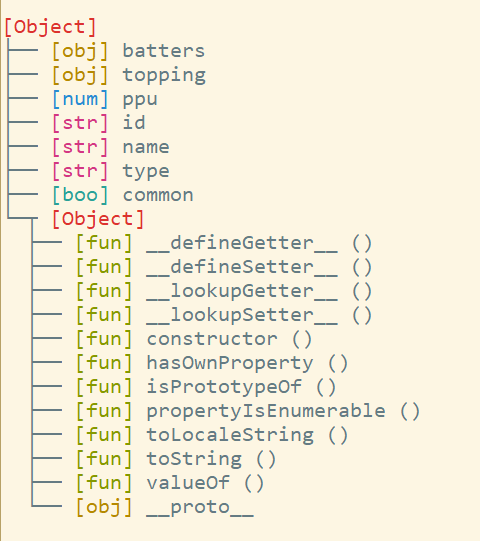
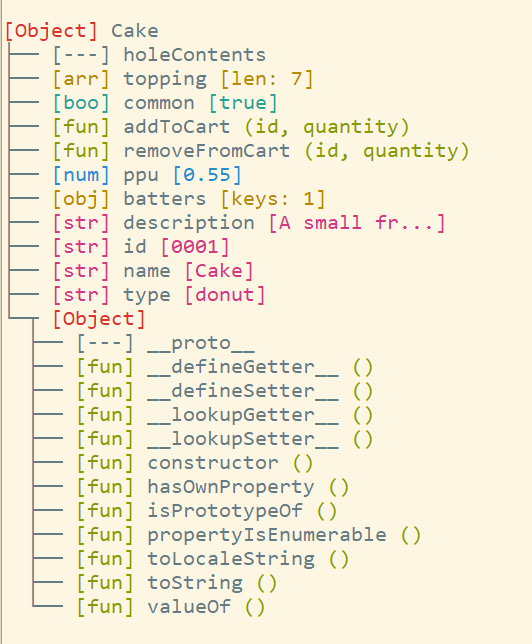
Array and value support

diff --git a/index.js b/index.js
@@ -2,6 +2,16 @@
 
 var archy = require('archy');
 var chalk = require('chalk');
+var stripAnsi = require('strip-ansi');
+var types = Object.freeze({
+  arr: 'arr',
+  boo: 'boo',
+  fun: 'fun',
+  num: 'num',
+  obj: 'obj',
+  str: 'str',
+  unk: '---'
+});
 
 module.exports = Object.freeze({
   apply(obj) {
@@ -30,16 +40,19 @@ function probe(obj) {
     node.nodes = Object.getOwnPropertyNames(obj);
 
     for (var i = 0; i < node.nodes.length; i++) {
-      var type = '---';
+      var focusObj = null;
       try {
-        type = typeof obj[node.nodes[i]];
+        focusObj = obj[node.nodes[i]];
       } catch (err) {}
+      var type = genType(focusObj);
       var prefix = genPrefix(type);
-      var postfix = type === 'function' ? genSignature(obj[node.nodes[i]].toString()) : '';
+      var postfix = genPostfix(type, focusObj);
       node.nodes[i] = `${prefix} ${node.nodes[i]} ${postfix}`;
     }
 
-    node.nodes.sort();
+    node.nodes.sort(function (a, b) {
+      return stripAnsi(a).localeCompare(stripAnsi(b));
+    });
     tree = tree || node;
     currentNode.nodes.push(node);
     currentNode = node;
@@ -75,30 +88,102 @@ function capitalize(value) {
   return value.charAt(0).toUpperCase() + value.slice(1);
 }
 
-function genPrefix(value) {
-  var result = `[${value.slice(0, 3)}]`.toLowerCase();
-  switch (result) {
-    case '[fun]':
-      result = chalk.green(result);
+function genType(obj) {
+  var type = types.unk;
+  if (obj == null) return type;
+  if (Array.isArray(obj)) return types.arr;
+  try {
+    type = typeof obj;
+    type = type.slice(0, 3).toLowerCase();
+  } catch (err) {}
+  return type;
+}
+
+function genPrefix(type) {
+  var result = void 0;
+  switch (type) {
+    case types.arr:
+      result = applyChalk(type, `[${type}]`);
       break;
-    case '[str]':
-      result = chalk.magenta(result);
+    case types.boo:
+      result = applyChalk(type, `[${type}]`);
       break;
-    case '[num]':
-      result = chalk.blue(result);
+    case types.fun:
+      result = applyChalk(type, `[${type}]`);
       break;
-    case '[boo]':
-      result = chalk.cyan(result);
+    case types.num:
+      result = applyChalk(type, `[${type}]`);
       break;
-    case '[obj]':
-      result = chalk.yellow(result);
+    case types.obj:
+      result = applyChalk(type, `[${type}]`);
+      break;
+    case types.str:
+      result = applyChalk(type, `[${type}]`);
       break;
     default:
+      result = `[${type}]`;
       break;
   }
   return result;
 }
 
-function genSignature(functionString) {
-  return functionString.slice(functionString.indexOf('('), functionString.indexOf(')') + 1);
+function genPostfix(type, obj) {
+  var postfix = '';
+  switch (type) {
+    case types.arr:
+      postfix = applyChalk(type, `[len: ${obj.length}]`);
+      break;
+    case types.boo:
+      postfix = applyChalk(type, `[${obj.toString()}]`);
+      break;
+    case types.fun:
+      var signature = genSignature(obj.toString());
+      postfix = applyChalk(type, signature);
+      break;
+    case types.num:
+      postfix = applyChalk(type, `[${obj.toString()}]`);
+      break;
+    case types.obj:
+      postfix = applyChalk(type, `[keys: ${Object.getOwnPropertyNames(obj).length}]`);
+      break;
+    case types.str:
+      var str = obj.length > 10 ? obj.substring(0, 10) + '...' : obj;
+      postfix = applyChalk(type, `[${str}]`);
+      break;
+    default:
+      break;
+  }
+  return postfix;
+}
+
+function applyChalk(type, str) {
+  var result = void 0;
+  switch (type) {
+    case types.arr:
+      result = chalk.yellow(str);
+      break;
+    case types.boo:
+      result = chalk.cyan(str);
+      break;
+    case types.fun:
+      result = chalk.green(str);
+      break;
+    case types.num:
+      result = chalk.blue(str);
+      break;
+    case types.obj:
+      result = chalk.yellow(str);
+      break;
+    case types.str:
+      result = chalk.magenta(str);
+      break;
+    default:
+      result = str;
+      break;
+  }
+  return result;
+}
+
+function genSignature(funString) {
+  return funString.slice(funString.indexOf('('), funString.indexOf(')') + 1);
 }

diff --git a/console-probe.js b/console-probe.js
@@ -1,5 +1,15 @@
 const archy = require('archy')
 const chalk = require('chalk')
+const stripAnsi = require('strip-ansi')
+const types = Object.freeze({
+  arr: 'arr',
+  boo: 'boo',
+  fun: 'fun',
+  num: 'num',
+  obj: 'obj',
+  str: 'str',
+  unk: '---'
+})
 
 module.exports = Object.freeze({
   apply (obj) {
@@ -28,14 +38,17 @@ function probe (obj) {
     node.nodes = Object.getOwnPropertyNames(obj)
 
     for (let i = 0; i < node.nodes.length; i++) {
-      let type = '---'
-      try { type = typeof obj[node.nodes[i]] } catch (err) { }
+      let focusObj = null
+      try { focusObj = obj[node.nodes[i]] } catch (err) {}
+      const type = genType(focusObj)
       const prefix = genPrefix(type)
-      const postfix = type === 'function' ? genSignature(obj[node.nodes[i]].toString()) : ''
+      const postfix = genPostfix(type, focusObj)
       node.nodes[i] = `${prefix} ${node.nodes[i]} ${postfix}`
     }
 
-    node.nodes.sort()
+    node.nodes.sort((a, b) => {
+      return stripAnsi(a).localeCompare(stripAnsi(b))
+    })
     tree = tree || node
     currentNode.nodes.push(node)
     currentNode = node
@@ -71,30 +84,102 @@ function capitalize (value) {
   return value.charAt(0).toUpperCase() + value.slice(1)
 }
 
-function genPrefix (value) {
-  let result = `[${value.slice(0, 3)}]`.toLowerCase()
-  switch (result) {
-    case '[fun]':
-      result = chalk.green(result)
+function genType (obj) {
+  let type = types.unk
+  if (obj == null) return type
+  if (Array.isArray(obj)) return types.arr
+  try {
+    type = typeof obj
+    type = type.slice(0, 3).toLowerCase()
+  } catch (err) { }
+  return type
+}
+
+function genPrefix (type) {
+  let result
+  switch (type) {
+    case types.arr:
+      result = applyChalk(type, `[${type}]`)
       break
-    case '[str]':
-      result = chalk.magenta(result)
+    case types.boo:
+      result = applyChalk(type, `[${type}]`)
       break
-    case '[num]':
-      result = chalk.blue(result)
+    case types.fun:
+      result = applyChalk(type, `[${type}]`)
       break
-    case '[boo]':
-      result = chalk.cyan(result)
+    case types.num:
+      result = applyChalk(type, `[${type}]`)
       break
-    case '[obj]':
-      result = chalk.yellow(result)
+    case types.obj:
+      result = applyChalk(type, `[${type}]`)
+      break
+    case types.str:
+      result = applyChalk(type, `[${type}]`)
       break
     default:
+      result = `[${type}]`
       break
   }
   return result
 }
 
-function genSignature (functionString) {
-  return functionString.slice(functionString.indexOf('('), functionString.indexOf(')') + 1)
+function genPostfix (type, obj) {
+  let postfix = ''
+  switch (type) {
+    case types.arr:
+      postfix = applyChalk(type, `[len: ${obj.length}]`)
+      break
+    case types.boo:
+      postfix = applyChalk(type, `[${obj.toString()}]`)
+      break
+    case types.fun:
+      const signature = genSignature(obj.toString())
+      postfix = applyChalk(type, signature)
+      break
+    case types.num:
+      postfix = applyChalk(type, `[${obj.toString()}]`)
+      break
+    case types.obj:
+      postfix = applyChalk(type, `[keys: ${Object.getOwnPropertyNames(obj).length}]`)
+      break
+    case types.str:
+      const str = obj.length > 10 ? obj.substring(0, 10) + '...' : obj
+      postfix = applyChalk(type, `[${str}]`)
+      break
+    default:
+      break
+  }
+  return postfix
+}
+
+function applyChalk (type, str) {
+  let result
+  switch (type) {
+    case types.arr:
+      result = chalk.yellow(str)
+      break
+    case types.boo:
+      result = chalk.cyan(str)
+      break
+    case types.fun:
+      result = chalk.green(str)
+      break
+    case types.num:
+      result = chalk.blue(str)
+      break
+    case types.obj:
+      result = chalk.yellow(str)
+      break
+    case types.str:
+      result = chalk.magenta(str)
+      break
+    default:
+      result = str
+      break
+  }
+  return result
+}
+
+function genSignature (funString) {
+  return funString.slice(funString.indexOf('('), funString.indexOf(')') + 1)
 }

diff --git a/console-probe.test.js b/console-probe.test.js
@@ -4,6 +4,7 @@ const donut = {
   'id': '0001',
   'type': 'donut',
   'name': 'Cake',
+  'description': 'A small fried cake of sweetened dough, typically in the shape of a ball or ring.',
   'ppu': 0.55,
   'common': true,
   'batters':
@@ -25,7 +26,10 @@ const donut = {
     { 'id': '5006', 'type': 'Chocolate with Sprinkles' },
     { 'id': '5003', 'type': 'Chocolate' },
     { 'id': '5004', 'type': 'Maple' }
-  ]
+  ],
+  'addToCart': function addToCart (id, quantity) {},
+  'removeFromCart': (id, quantity) => {},
+  'holeContents': null
 }
 
 describe('suppressed log tests', () => {
@@ -82,5 +86,7 @@ describe('suppressed log tests', () => {
 })
 
 afterAll(() => {
+  console.log()
   probe.get()(donut)
+  console.log()
 })

diff --git a/README.md b/README.md
@@ -34,6 +34,7 @@ const donut = {
   'id': '0001',
   'type': 'donut',
   'name': 'Cake',
+  'description': 'A small fried cake of sweetened dough, typically in the shape of a ball or ring.',
   'ppu': 0.55,
   'common': true,
   'batters':
@@ -55,9 +56,11 @@ const donut = {
     { 'id': '5006', 'type': 'Chocolate with Sprinkles' },
     { 'id': '5003', 'type': 'Chocolate' },
     { 'id': '5004', 'type': 'Maple' }
-  ]
+  ],
+  'addToCart': function addToCart (id, quantity) {},
+  'removeFromCart': (id, quantity) => {},
+  'holeContents': null
 }
-
 
 console.probe(donut) // Throws exception 'console.probe is not a function'
 probe.apply()
@@ -75,6 +78,8 @@ probeFunc(donut) // Writes to the console
 The above code will produce the following result when it writes to the console:
 
 ![Example][example-image]
+
+_Note: Types of `null`, `undefined`, or type conversion errors will display as `[---]`._
 
 ## Rational
 
@@ -154,6 +159,7 @@ See my [other projects on NPM](https://www.npmjs.com/~grantcarthew).
 
 ## Change Log
 
+- v2.0.2 [2018-01-26]: Addes support for arrays and values. Fixed sort.
 - v2.0.1 [2018-01-25]: Added repository url to package.json.
 - v2.0.0 [2018-01-24]: Changed API. Improved type support.
 - v1.0.2 [2018-01-23]: Updated Readme.
